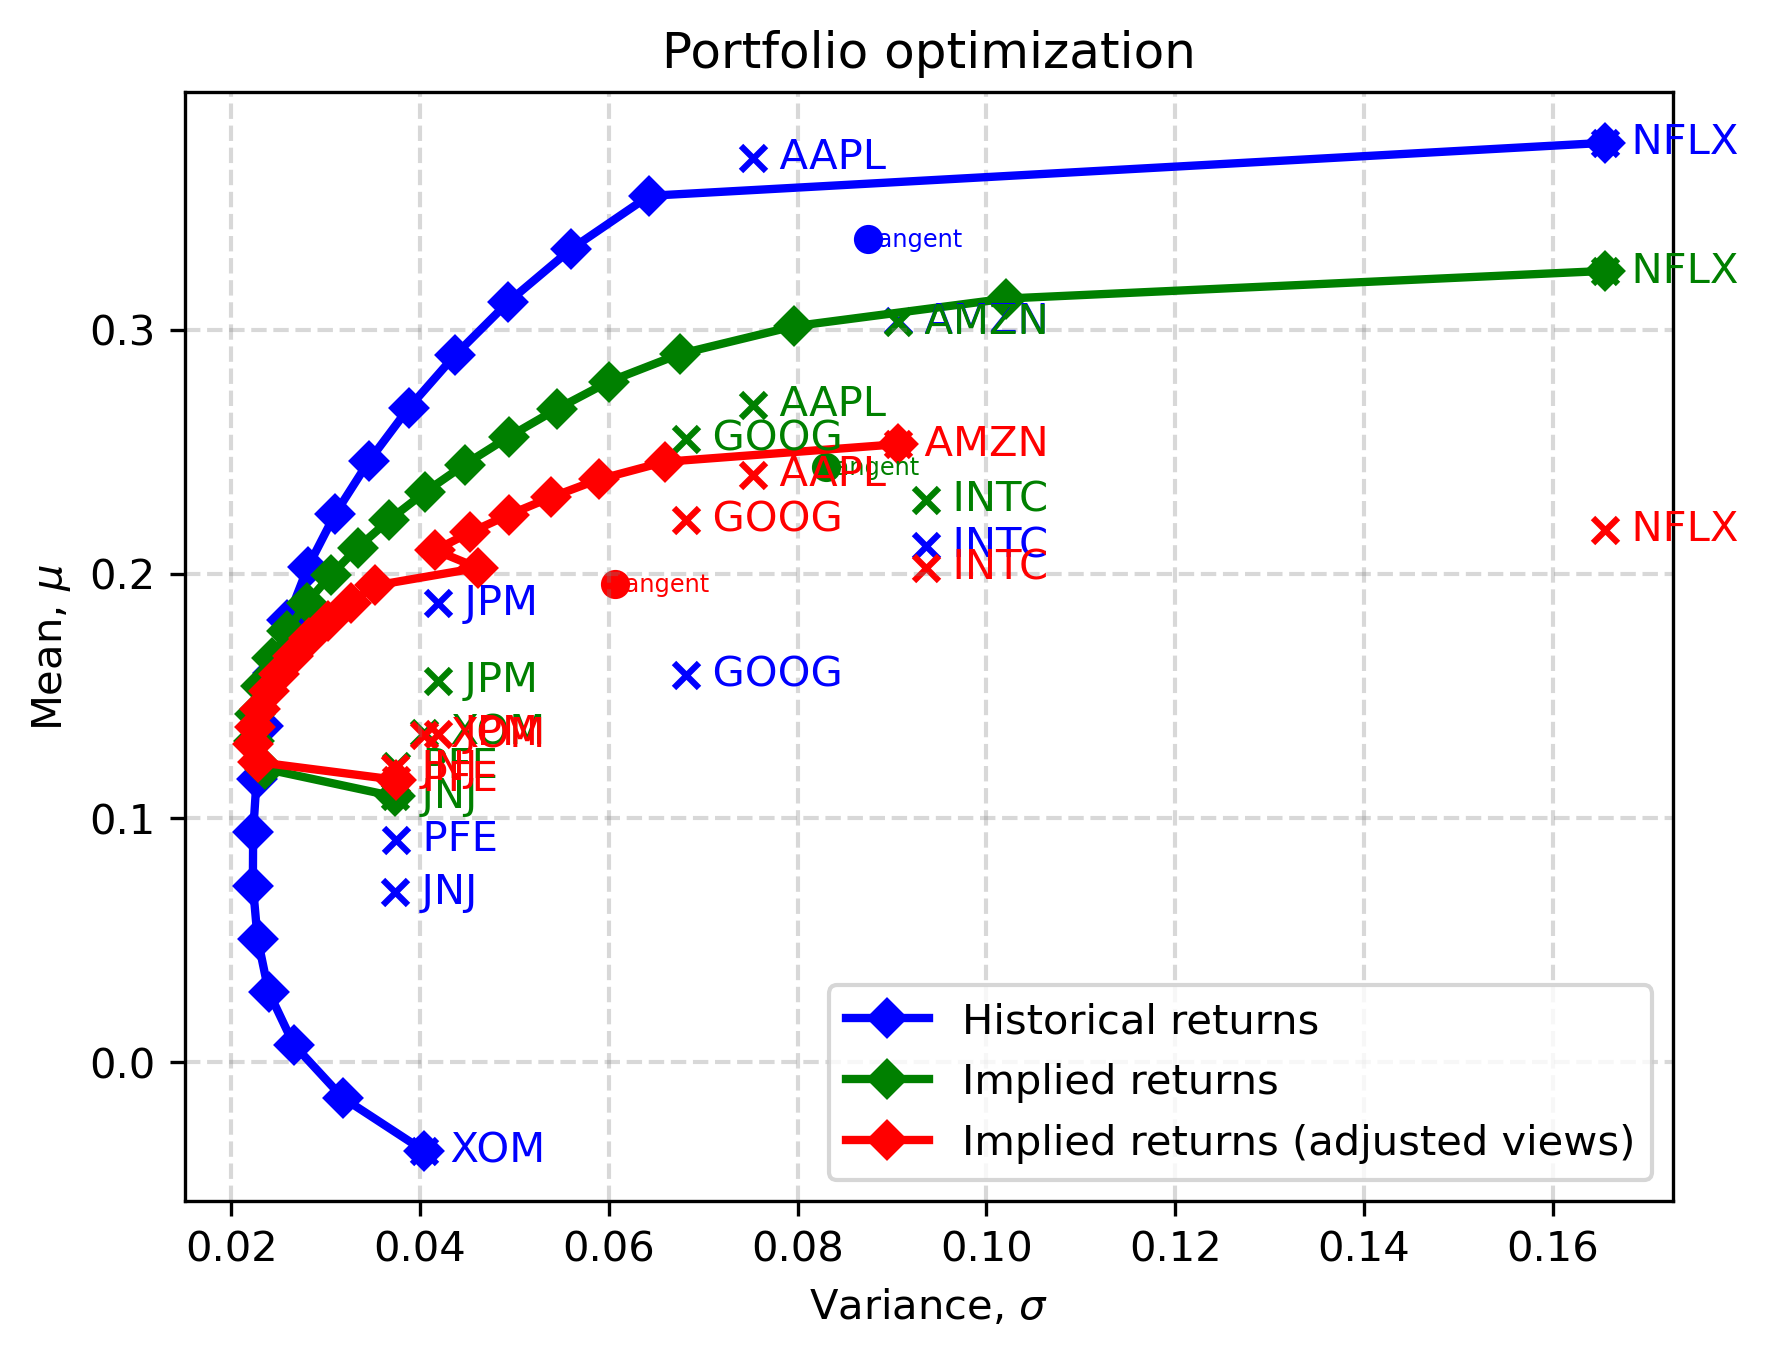
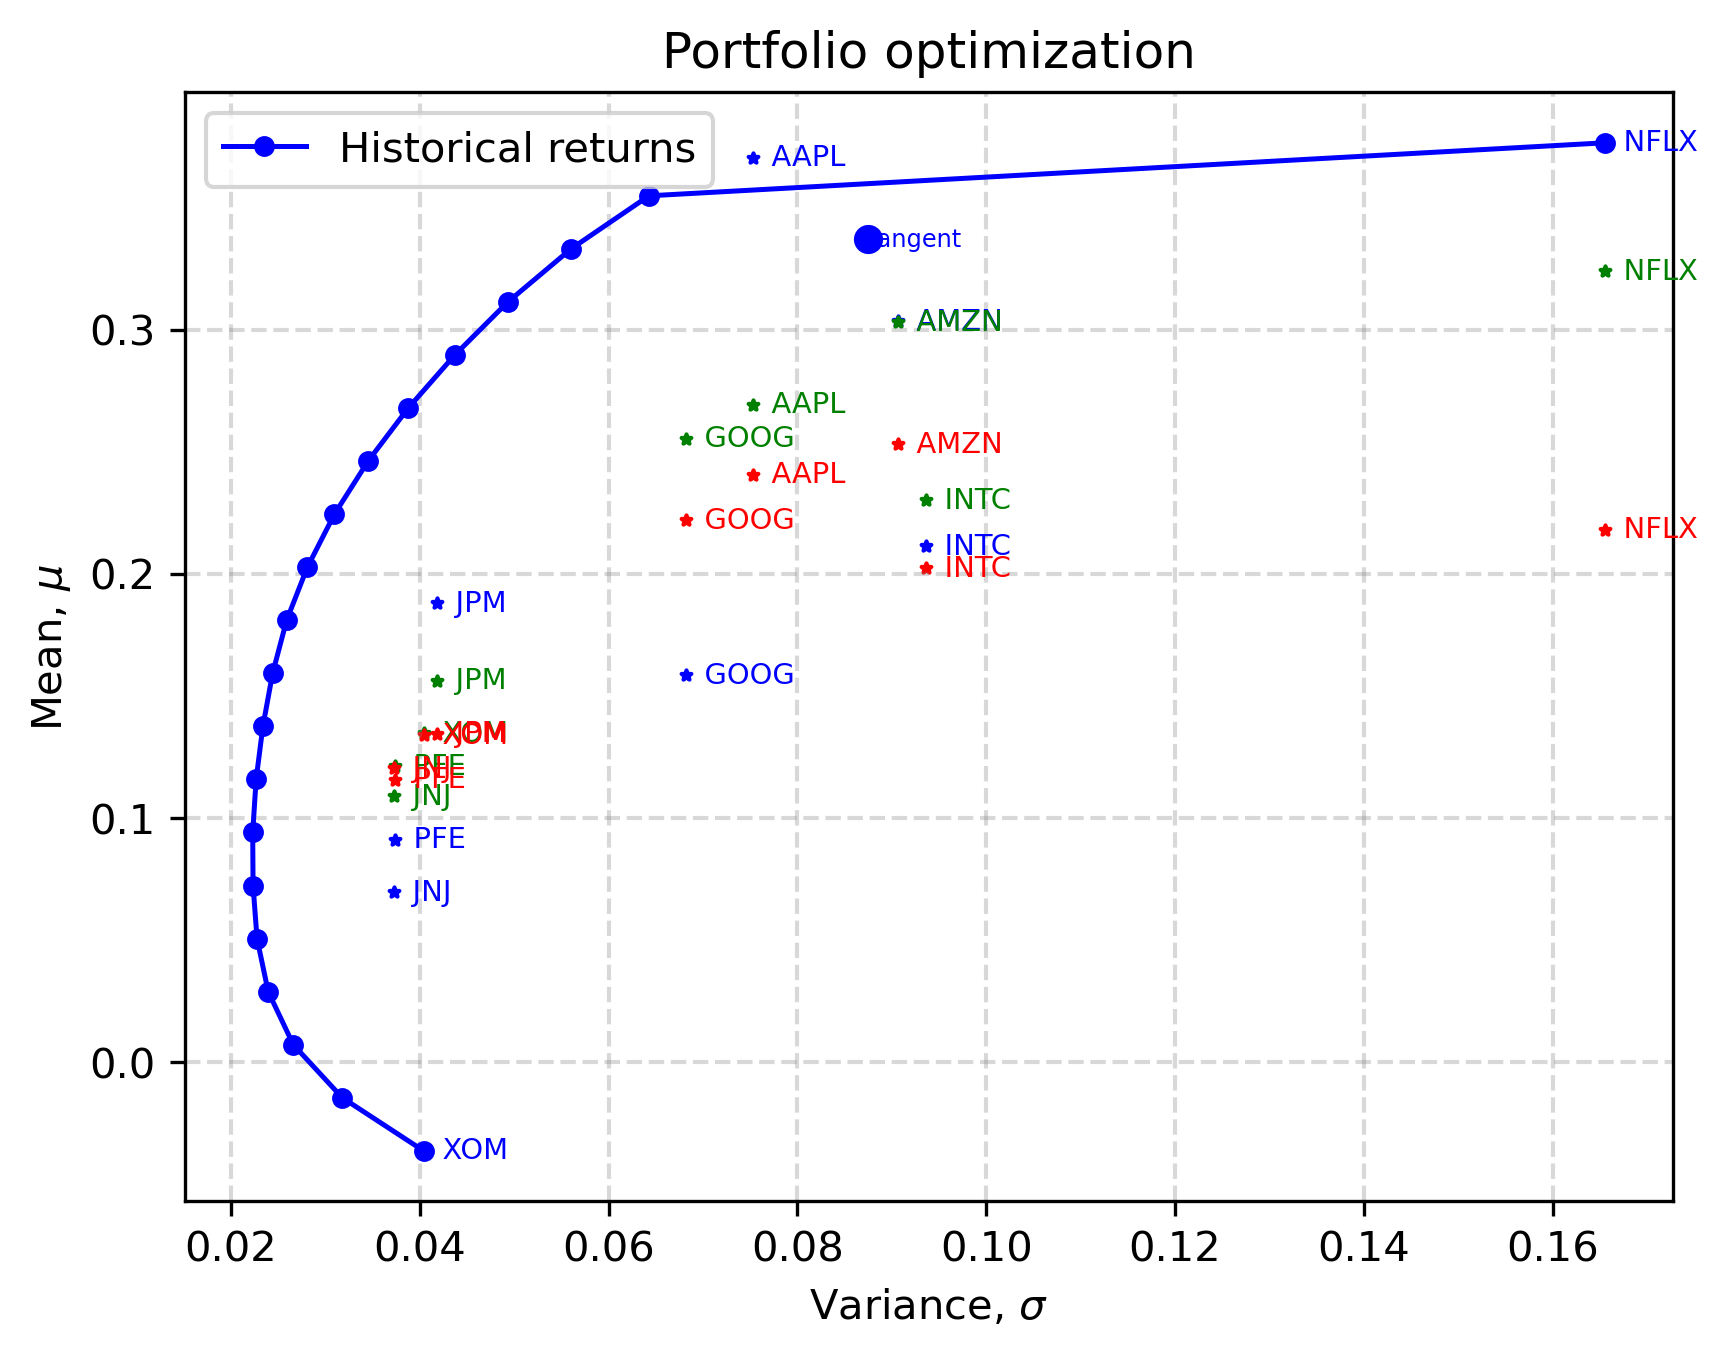
black_litterman.py

diff --git a/src/python/trading/black_litterman.py b/src/python/trading/black_litterman.py
@@ -130,9 +130,16 @@ def viewsMatrixPQ(tikers, views):
 
 
 def plotAssets(tickers, rets, covs, color="black"):
-    plt.scatter([covs[i, i] for i in range(len(tickers))], rets, marker="x", color=color)
+    plt.scatter([covs[i, i] for i in range(len(tickers))], rets, marker="*", color=color, s=6)
     for i in range(len(tickers)):
-        plt.text(covs[i, i], rets[i], "  %s" % tickers[i], verticalalignment="center", color=color)
+        plt.text(
+            covs[i, i],
+            rets[i],
+            "  %s" % tickers[i],
+            verticalalignment="center",
+            color=color,
+            fontsize="x-small",
+        )
 
 
 def plotFrontier(result, label=None, color="black"):
@@ -150,9 +157,9 @@ def plotFrontier(result, label=None, color="black"):
         result["eff_mean"],
         label=label,
         color=color,
-        linewidth=2,
-        marker="D",
-        markersize=6,
+        linewidth=1.2,
+        marker="o",
+        markersize=4,
     )
 
 
@@ -260,9 +267,9 @@ if __name__ == "__main__":
     plotAssets(tickers, rets_annual, covs_annual, color="blue")
     plotFrontier(optim1, label="Historical returns", color="blue")
     plotAssets(tickers, eqPI + rf, covs_annual, color="green")
-    plotFrontier(optim2, label="Implied returns", color="green")
+    # plotFrontier(optim2, label="Implied returns", color="green")
     plotAssets(tickers, bl_eqPI + rf, covs_annual, color="red")
-    plotFrontier(optim3, label="Implied returns (adjusted views)", color="red")
+    # plotFrontier(optim3, label="Implied returns (adjusted views)", color="red")
 
     # 차트 공통 속성 지정 (차트크기, 제목, 범례, 축이름 등)
     plt.rcParams["figure.figsize"] = (32, 24)
